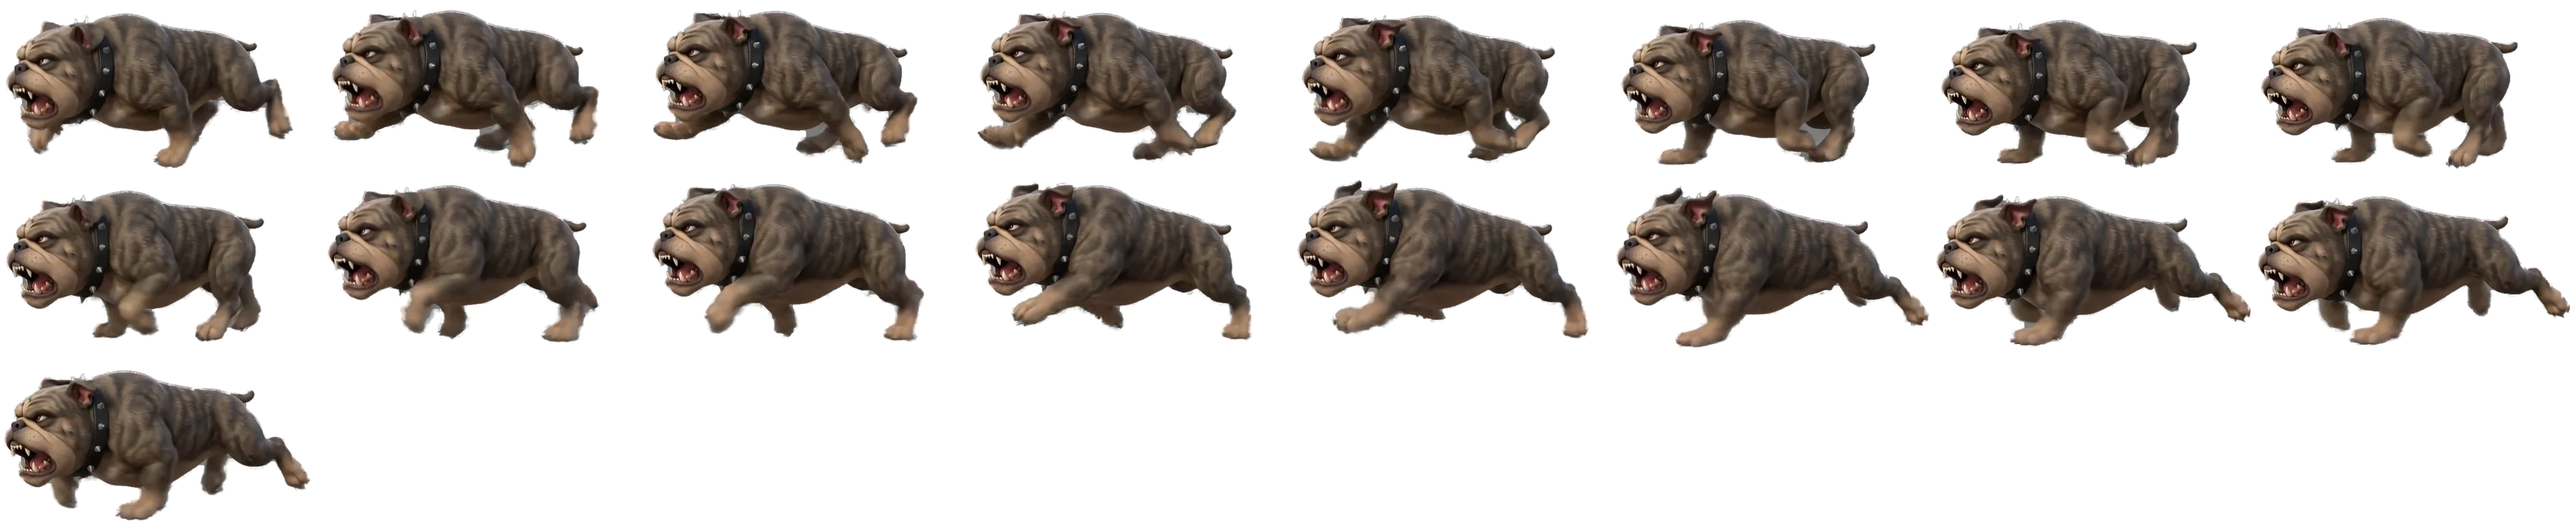
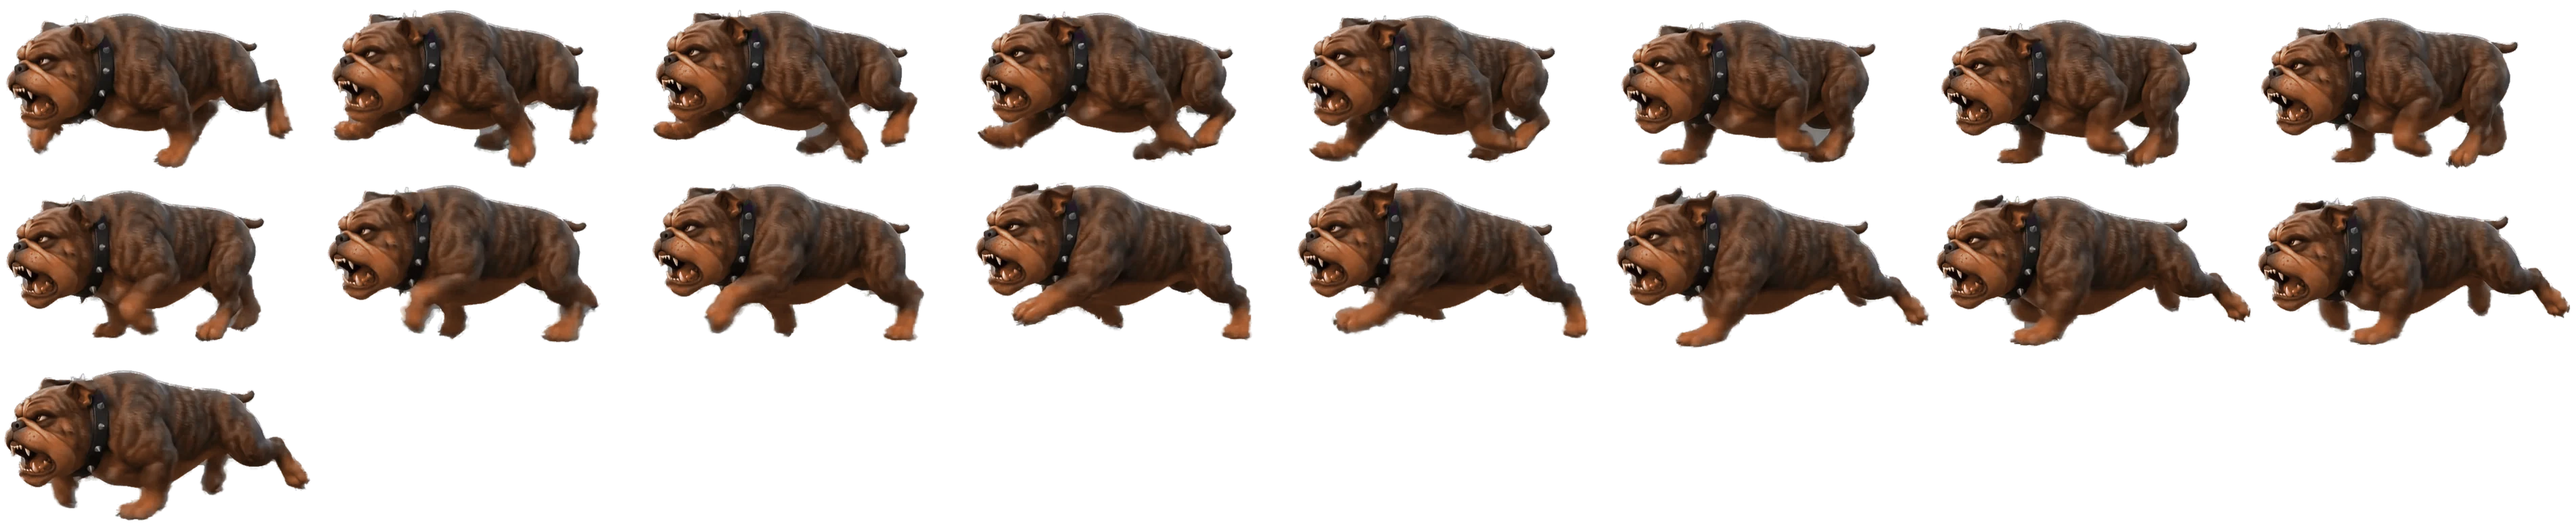
Item 13: o Furtão no marrom da abertura, e a crina fora do preto
O "pode" do Pedro era para gerar. Não foi preciso: o defeito era de cor, não
de desenho. As folhas são 149 quadros do Furtão e 172 do lobo-guará tirados de
vídeo — pelo design.md, quadros gerados um a um pela IA tremem. Regerar
custaria crédito e devolveria animação pior. As folhas foram graduadas.

Furtão (tools/grade-furtao.py): medido no arquivo, o pelo nem era azul — era
marrom lavado (saturação 0,24) que a névoa azul da fase 1 lê como cinza. Alvo
tirado da própria abertura pintada, R/B 2,03. A força é calibrada por arquivo,
senão ele ia de 2,01 a 2,58 conforme a pose; as onze poses ficaram em 2,05.

Lobo-guará (tools/clarear-crina.py): o card da fase 2 tem a crina marrom-escura
e quente, não preta. Sobe por curva, não por soma. A banda vertical de 55% da
caixa opaca de cada quadro é o que separa a crina das patas, também pretas —
pata preta é do bicho e fica.

A coleira de espinhos ficou de propósito: a abertura pintada tem coleira, o art
bible não a proíbe, e o fato não-negociável é só "marrom, nunca cinza-azulado".

Conferido na luta de cada chefe, nos dois viewports. provar.js verde.

Claude-Session: https://claude.ai/code/session_01GVMzXmiRLpLvftgjMnbcav

diff --git a/tools/clarear-crina.py b/tools/clarear-crina.py
@@ -1,0 +1,93 @@
+#!/usr/bin/env python3
+"""clarear-crina.py — tira a crina do lobo-guará de preto chapado e a põe no marrom da arte pintada.
+
+Item 13 do laudo do pente fino. A crina é o PONTO FRACO da luta da fase 2 e, pelo art bible, devia
+ser o ponto claro do vilão — no sprite ela era a parte MAIS ESCURA, invisível como alvo.
+
+Alvo medido no card pintado da fase 2 (assets/intro/fase2.jpg), que é a referência canônica: lá a
+crina é marrom-escura e quente (v 0,46 contra 0,58 do corpo, razão 0,79), não preta. No sprite a
+razão era 0,46.
+
+COMO SEPARA: a crina é escura E quase sem cor; o corpo é laranja saturado e a boca aberta é
+vermelha saturada, então o guarda de saturação já os poupa. O que a saturação NÃO separa são as
+patas, também pretas — por isso a banda vertical: só os 55% de cima da caixa opaca DE CADA QUADRO
+entram. Pata preta é do bicho e fica; crina preta é o defeito.
+
+POR QUE GRADUAR E NÃO REGERAR: as seis tiras são 172 quadros tirados de vídeo. Regerar custa
+crédito e, pelo design.md (24/11/2026), devolve quadros que variam entre si — a animação treme.
+
+Rodar da raiz:  python3 tools/clarear-crina.py
+Para refazer do original:  git checkout game/assets/anim/guara-*.webp game/assets/sprites/guara-*.png
+"""
+from PIL import Image
+import numpy as np, pathlib, json, sys
+
+HUE, LIFT, SAT, BANDA = 24 / 360.0, 1.6, 0.66, 0.55
+
+def _hsv(rgb):
+    r, g, b = rgb[..., 0], rgb[..., 1], rgb[..., 2]
+    mx, mn = rgb.max(-1), rgb.min(-1); d = np.maximum(mx - mn, 1e-6)
+    h = np.select([mx == r, mx == g, mx == b],
+                  [((g - b) / d) % 6, (b - r) / d + 2, (r - g) / d + 4], default=0.) / 6
+    return h, np.where(mx > 1e-6, (mx - mn) / np.maximum(mx, 1e-6), 0.), mx
+
+def _rgb(h, s, v):
+    i = h * 6.; f = i - np.floor(i)
+    p, q, t = v * (1 - s), v * (1 - s * f), v * (1 - s * (1 - f))
+    idx = (np.floor(i).astype(np.int32) % 6)[..., None]
+    opc = np.stack([np.stack([v, t, p], -1), np.stack([q, v, p], -1), np.stack([p, v, t], -1),
+                    np.stack([p, q, v], -1), np.stack([t, p, v], -1), np.stack([v, p, q], -1)], 0)
+    return np.take_along_axis(opc, idx[None, ...], 0)[0]
+
+def clarear(a):
+    """a: array HxWx4 float de UM quadro (a banda é relativa à caixa opaca dele)."""
+    rgb, A = a[..., :3] / 255., a[..., 3]
+    h, s, v = _hsv(rgb)
+    sg = s * np.clip(v / 0.22, 0, 1)        # no quase-preto a saturação é ruído
+    w = np.clip((0.44 - v) / 0.30, 0, 1) * np.clip((0.40 - sg) / 0.16, 0, 1) * (A / 255.)
+    linhas = np.where((A > 128).any(1))[0]
+    if len(linhas):
+        y0, y1 = linhas[0], linhas[-1]
+        fr = (np.arange(a.shape[0])[:, None] - y0) / max(y1 - y0, 1)
+        w = w * np.clip((BANDA - fr) / 0.12, 0, 1)   # só a metade de cima: as patas pretas ficam
+    v2 = v ** (1 / (1 + LIFT * w))          # curva, não soma: o preto chapado é que precisa subir
+    s2 = np.clip(s + (SAT - s) * w * 0.9, 0, 0.78)
+    dh = (HUE - h + 0.5) % 1 - 0.5
+    out = np.clip(_rgb((h + dh * w) % 1, s2, np.clip(v2, 0, 1)), 0, 1)
+    return np.concatenate([out * 255, A[..., None]], -1)
+
+def razao(a):
+    """crina/corpo por valor, medido nos 45% de cima contra o resto — para ter um número de antes e depois."""
+    rgb, A = a[..., :3] / 255., a[..., 3]
+    _, s, v = _hsv(rgb)
+    op = A > 128
+    escuro = op & (v < 0.40) & (s < 0.40)
+    corpo = op & (v > 0.35) & (s > 0.55)
+    if escuro.sum() < 20 or corpo.sum() < 20: return 0.
+    return v[escuro].mean() / v[corpo].mean()
+
+if __name__ == '__main__':
+    raiz = pathlib.Path(__file__).resolve().parent.parent
+    alvos = sorted((raiz / 'game/assets/anim').glob('guara-*.webp')) + \
+            sorted((raiz / 'game/assets/sprites').glob('guara-*.png'))
+    if not alvos: sys.exit('nenhum arquivo do lobo-guará encontrado')
+    for p in alvos:
+        im = Image.open(p).convert('RGBA')
+        a = np.asarray(im).astype(np.float32)
+        meta_p = p.with_suffix('.json')
+        if meta_p.exists():                 # tira de animação: grade de quadros, um a um
+            m = json.load(open(meta_p)); cw, ch = a.shape[1] // m['cols'], a.shape[0] // m['rows']
+            antes = razao(a[:ch, :cw])
+            for r in range(m['rows']):
+                for c in range(m['cols']):
+                    sl = (slice(r * ch, (r + 1) * ch), slice(c * cw, (c + 1) * cw))
+                    if a[sl][..., 3].max() < 128: continue
+                    a[sl] = clarear(a[sl])
+            depois = razao(a[:ch, :cw])
+        else:
+            antes = razao(a); a = clarear(a); depois = razao(a)
+        out = Image.fromarray(a.astype(np.uint8), 'RGBA')
+        if p.suffix == '.webp': out.save(p, 'WEBP', quality=90, method=5)
+        else: out.save(p, 'PNG', optimize=True)
+        print(f'{p.relative_to(raiz)}: crina/corpo {antes:.2f} -> {depois:.2f}  ({p.stat().st_size // 1024} KB)')
+    print('alvo do card pintado da fase 2: 0,79')

diff --git a/tools/grade-furtao.py b/tools/grade-furtao.py
@@ -1,0 +1,80 @@
+#!/usr/bin/env python3
+"""grade-furtao.py — põe o Furtão na cor que o fato não-negociável manda: marrom, nunca cinza-azulado.
+
+Item 13 do laudo do pente fino (docs/laudo-pente-fino.md). Vale para as cinco tiras de animação
+(game/assets/anim/furtao-*.webp) e as seis poses paradas (game/assets/sprites/brute-*.png).
+
+POR QUE GRADUAR E NÃO REGERAR: as tiras saíram de vídeo do Google Flow — são 149 quadros contínuos.
+O design.md (24/11/2026) é explícito: quadros desenhados um a um pela IA variam entre si e a
+animação treme; os de vídeo são contínuos. Regerar custaria crédito e devolveria uma animação pior.
+Medido no arquivo, o pelo nem era azul: era marrom lavado (R 0,345 G 0,299 B 0,269, saturação 0,24).
+Lido sob a névoa azul da fase 1, isso vira cinza. A conta é de saturação e matiz, não de desenho.
+
+Alvo tirado da própria abertura pintada (assets/intro/2-roubo.jpg), que é a referência que o
+design.md cita: R/B 2,03, saturação 0,56.
+
+Rodar da raiz do repositório:  python3 tools/grade-furtao.py
+É idempotente no sentido prático (já graduado, quase não mexe), mas o certo é rodar sobre o original:
+git checkout game/assets/anim/furtao-*.webp game/assets/sprites/brute-*.png
+"""
+from PIL import Image
+import numpy as np, pathlib, sys
+
+HUE_ALVO = 22.0 / 360.0     # o marrom quente da abertura pintada
+HUE_K, SAT_TETO = 1.0, 0.70
+ALVO_RB = 2.05               # R/B que todas as poses têm de atingir (a abertura pintada mede 2,03)
+
+def grade(img, SAT_K):
+    a = np.asarray(img.convert('RGBA')).astype(np.float32)
+    rgb, A = a[..., :3] / 255.0, a[..., 3]
+    r, g, b = rgb[..., 0], rgb[..., 1], rgb[..., 2]
+    mx, mn = rgb.max(-1), rgb.min(-1)
+    v = mx
+    s = np.where(mx > 1e-6, (mx - mn) / np.maximum(mx, 1e-6), 0.0)
+    d = np.maximum(mx - mn, 1e-6)
+    h = np.select([mx == r, mx == g, mx == b],
+                  [((g - b) / d) % 6, (b - r) / d + 2, (r - g) / d + 4], default=0.0) / 6.0
+    # peso: pega o pelo (meio-tom), poupa o couro escuro da coleira e o focinho/peito claros
+    w = np.clip((v - 0.10) / 0.10, 0, 1) * np.clip((0.86 - v) / 0.14, 0, 1)
+    # poupa o metal dos espinhos (cinza puro E claro); as listras lavadas do pelo continuam entrando,
+    # senão ficam cinza contra o marrom e leem como uma faixa lilás no lombo
+    w = w * np.clip((s - 0.035) / 0.06, 0, 1) * (1 - np.clip((0.12 - s) / 0.12, 0, 1) * np.clip((v - 0.42) / 0.12, 0, 1))
+    w = w * (A / 255.0)
+    dh = (HUE_ALVO - h + 0.5) % 1.0 - 0.5
+    h2 = (h + dh * HUE_K * w) % 1.0
+    s2 = np.clip(s * (1 + (SAT_K - 1) * w), 0, SAT_TETO)
+    i = h2 * 6.0; f = i - np.floor(i)
+    p, q, t = v * (1 - s2), v * (1 - s2 * f), v * (1 - s2 * (1 - f))
+    idx = (np.floor(i).astype(np.int32) % 6)[..., None]
+    opc = np.stack([np.stack([v, t, p], -1), np.stack([q, v, p], -1), np.stack([p, v, t], -1),
+                    np.stack([p, q, v], -1), np.stack([t, p, v], -1), np.stack([v, p, q], -1)], 0)
+    out = np.take_along_axis(opc, idx[None, ...], 0)[0]
+    return Image.fromarray(np.concatenate([np.clip(out, 0, 1) * 255.0, A[..., None]], -1).astype(np.uint8), 'RGBA')
+
+def razao(img):
+    a = np.asarray(img.convert('RGBA')).astype(np.float32)
+    rgb, A = a[..., :3] / 255.0, a[..., 3]
+    v = rgb.max(-1); sel = (A > 128) & (v > 0.2) & (v < 0.6)
+    if sel.sum() == 0: return 0.0
+    return rgb[..., 0][sel].mean() / max(rgb[..., 2][sel].mean(), 1e-6)
+
+if __name__ == '__main__':
+    raiz = pathlib.Path(__file__).resolve().parent.parent
+    alvos = sorted((raiz / 'game/assets/anim').glob('furtao-*.webp')) + \
+            sorted((raiz / 'game/assets/sprites').glob('brute-*.png'))
+    if not alvos: sys.exit('nenhum arquivo do Furtão encontrado')
+    for p in alvos:
+        im = Image.open(p); antes = razao(im)
+        # cada folha saiu de um vídeo com a sua própria luz, então uma força fixa deixava o Furtão entre
+        # R/B 2,01 e 2,58 conforme a pose — ele mudava de tom ao trocar de pose. A força é calibrada por
+        # arquivo, por busca binária, para todas as poses chegarem no mesmo marrom.
+        lo, hi = 1.0, 6.0
+        for _ in range(22):
+            mid = (lo + hi) / 2
+            if razao(grade(im, mid)) < ALVO_RB: lo = mid
+            else: hi = mid
+        out = grade(im, (lo + hi) / 2); depois = razao(out)
+        if p.suffix == '.webp': out.save(p, 'WEBP', quality=90, method=5)
+        else: out.save(p, 'PNG', optimize=True)
+        print(f'{p.relative_to(raiz)}: R/B {antes:.2f} -> {depois:.2f}  (força {(lo + hi) / 2:.2f}, {p.stat().st_size // 1024} KB)')
+    print('alvo da abertura pintada: R/B 2,03')

diff --git a/game/docs/design.md b/game/docs/design.md
@@ -34,6 +34,10 @@ O que **não** entra na fase 1: bandeirinhas, cenário colorido ou "feliz", vila
 - **Movimento elástico.** O corpo do Timtim estica e achata com uma mola, inclina com a velocidade, e deixa um rastro de silhuetas de luz na pirueta e no turbo.
 - **O Timtim tem o mesmo tamanho em todas as poses.** As alturas em `R.frame` (parado 80, correndo 82, pulo 77, queda 82, farejando 69) foram acertadas para a cabeça dele não mudar de tamanho ao trocar de pose; antes ele encolhia uns 20% no pulo.
 - **O Furtão é marrom**, como na abertura pintada (antes o jogo o deixava cinza-azulado).
+  Virou verdade em 28/11/2026: as folhas dele foram **graduadas** para o marrom da abertura
+  (R/B 2,05, o mesmo da arte pintada), e não regeradas — são 149 quadros tirados de vídeo. A coleira
+  de espinhos **fica**: a abertura pintada tem coleira. Na mesma passada, a crina do lobo-guará saiu
+  do preto chapado para o marrom quente do card da fase 2, que é onde ela devia estar.
 - **Interface discreta.** Vidro escuro, contornos finos de luz, letras serifadas que brilham. Nada de contorno grosso.
 
 ## 2.5D
